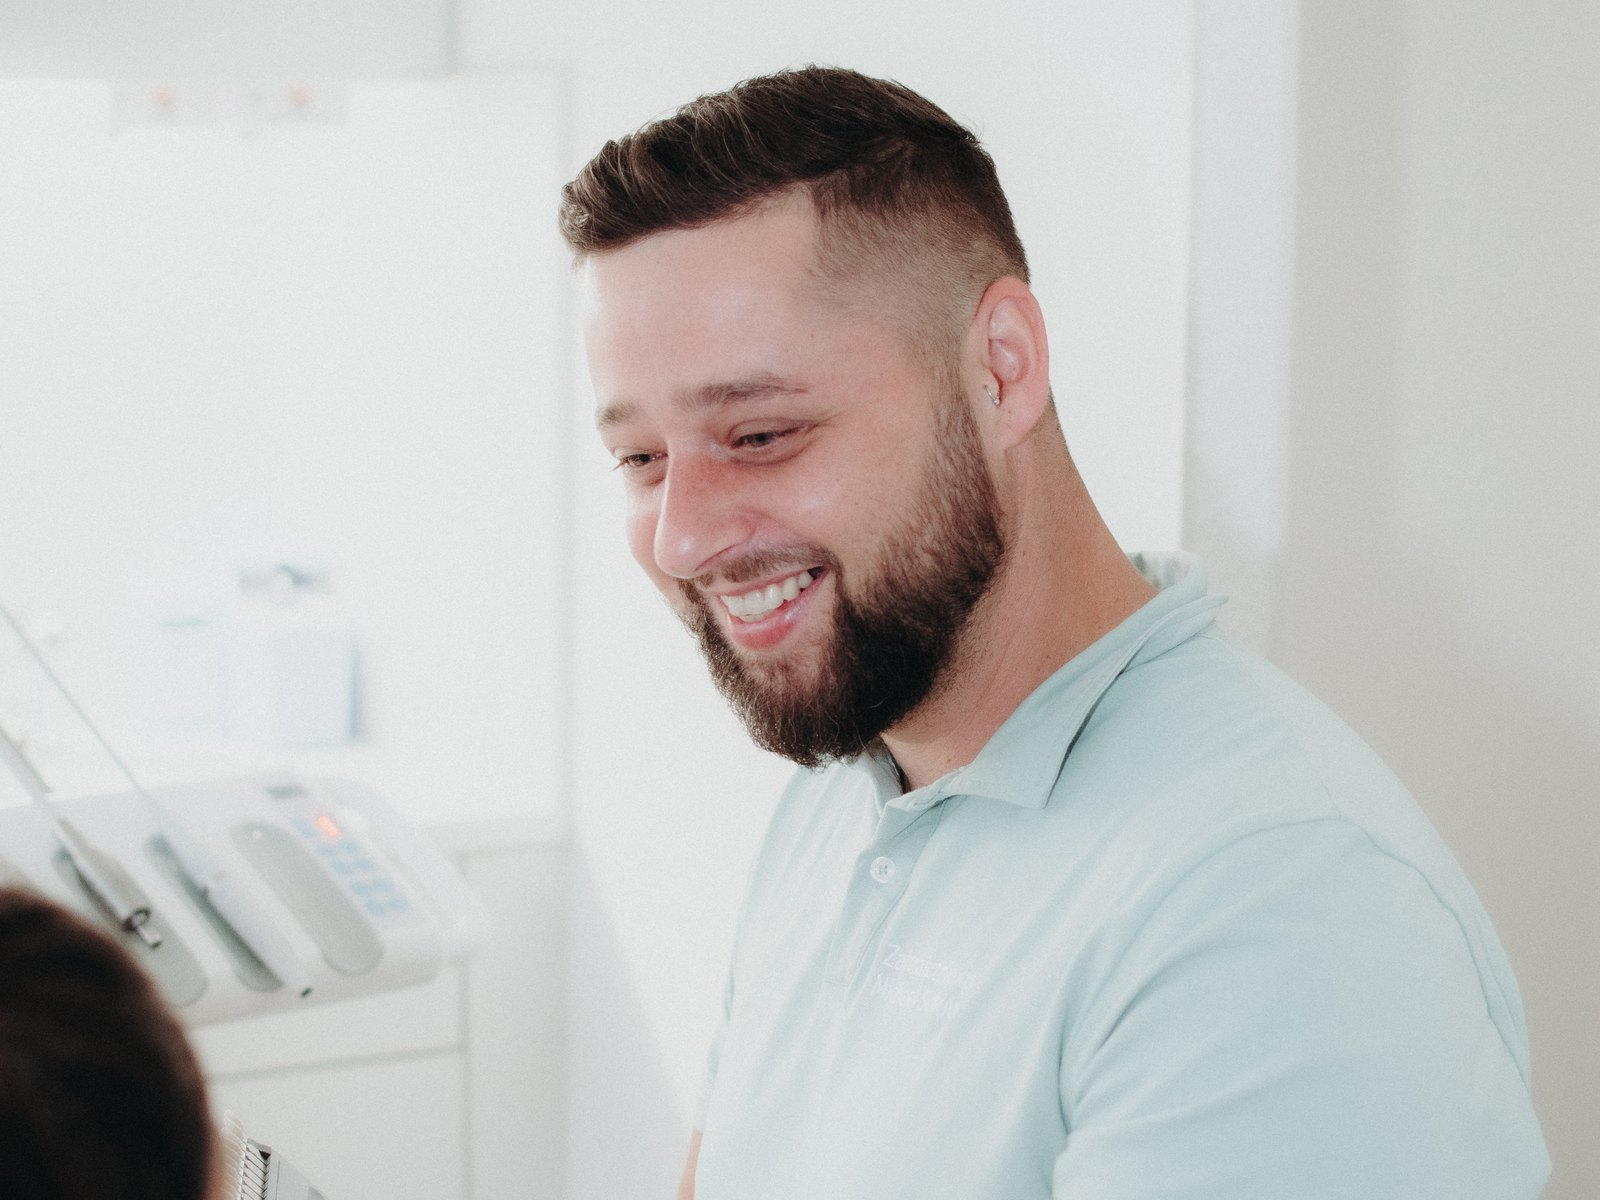
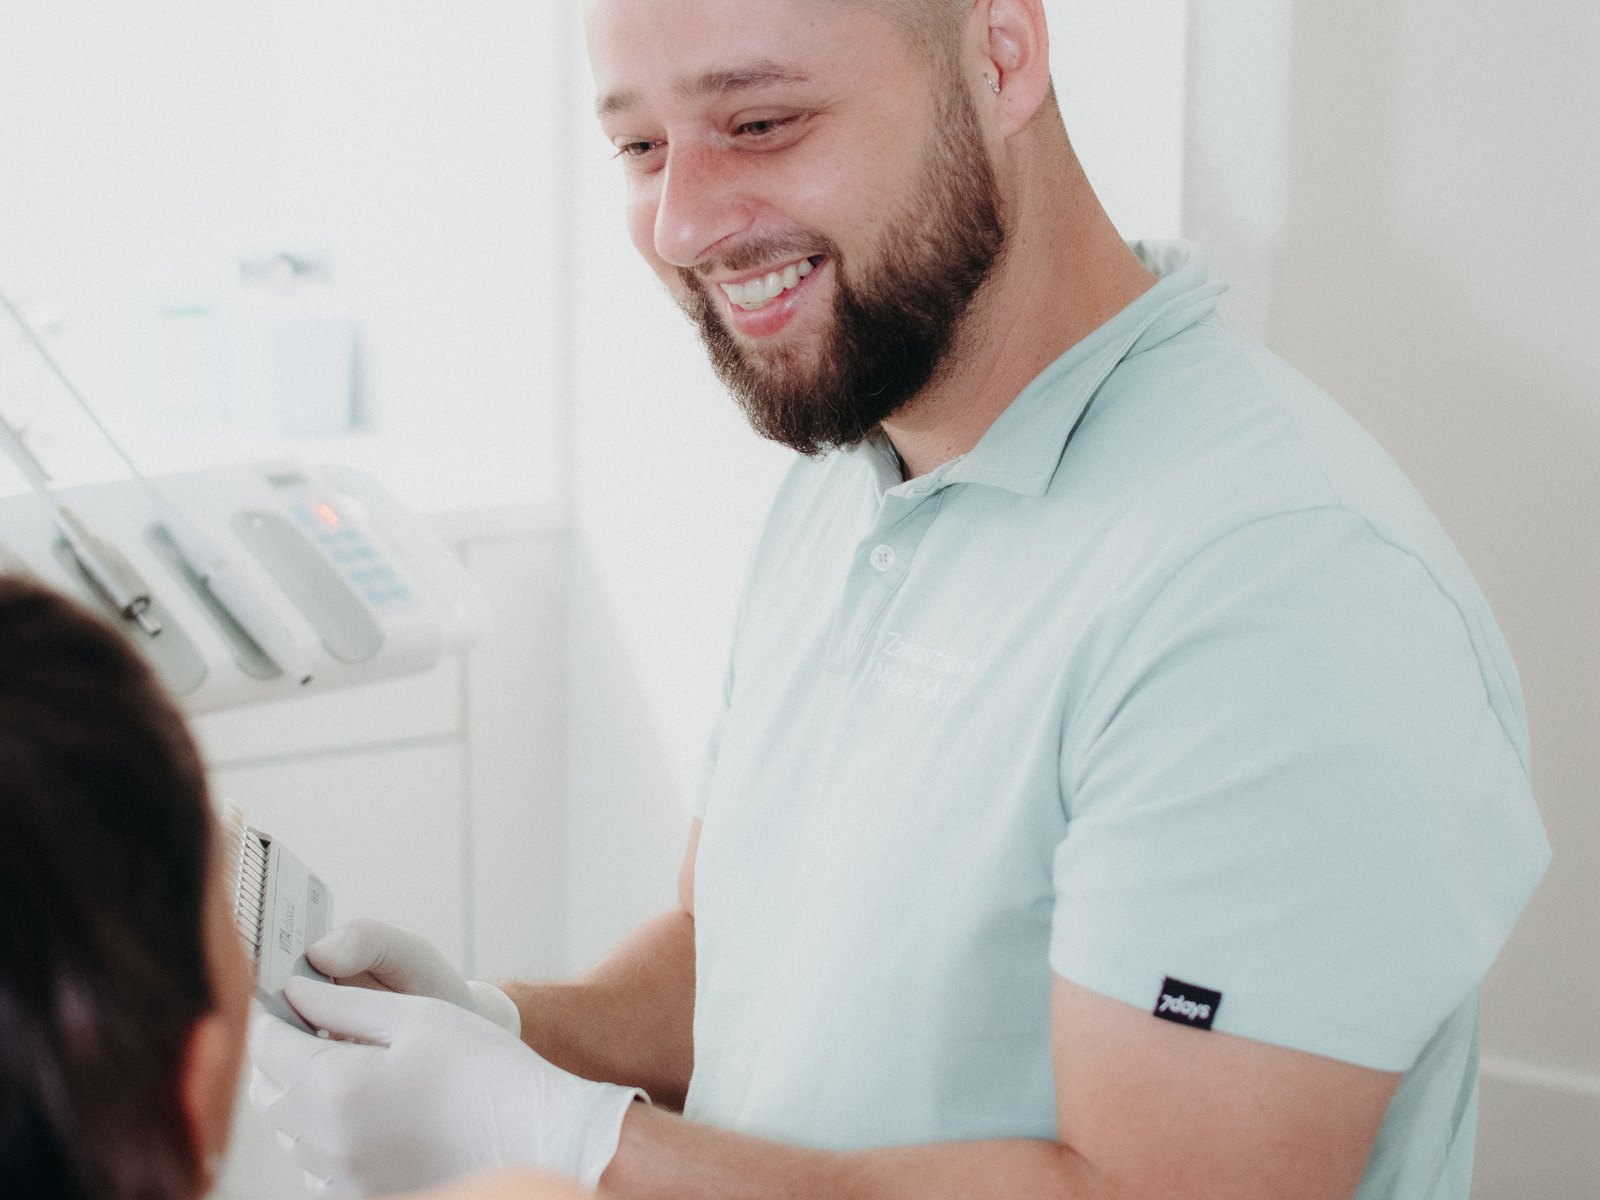
Kundenrueckmeldung: Hero heller, Team 3 mittig, Galerie ausgeglichen, Foto im Kontakt-Popup
- Hero-Flaeche von #E4EDE6 auf #EFF4F0: die gruene Schrift vibrierte
  auf dem satteren Grund
- team-stephanie-schulz.jpg neu geschnitten, stand zu weit links
- galerie-moment.jpg zeigt jetzt die Behandlungssituation statt nur
  das Gesicht; Kachel von breit auf mittel, Im Alltag uebernimmt breit
- Kontaktfoto sitzt jetzt im Kopf des Kontakt-Popups mit kleinem
  Telefon-Punkt, der runde Platz im Kontaktabschnitt entfaellt
- Dabei behoben: der leere Foto-Container blieb als Grid-Spalte stehen
  und liess den Kontaktdaten auf dem Handy nur 166 statt 342 px

Claude-Session: https://claude.ai/code/session_0193Zfcer8ifQsmnTo4EijTZ

diff --git a/import/index.html b/import/index.html
@@ -463,7 +463,7 @@
        Bewusst NICHT an --bg2 gekoppelt: Auf fast weissem Grund wuerde das
        helle Salbei-Polo mit dem Hintergrund verschwimmen. */
     #hero {
-      --hero-flaeche: #E4EDE6;
+      --hero-flaeche: #EFF4F0;
       padding-top: 72px;
       min-height: 100vh;
       display: grid;
@@ -1467,6 +1467,30 @@
       display: flex; align-items: center; justify-content: center; color: var(--notfall);
     }
     .notfall-modal-icon svg { width: 47%; height: 47%; }
+    /* Rundes Foto im Kopf des Kontakt-Popups, ersetzt das fruehere
+       Telefon-Icon. Kleiner Telefon-Punkt unten rechts als Hinweis. */
+    .notfall-modal-foto {
+      width: 92px; height: 92px; margin: 0 auto 1.25rem;
+      border-radius: 50%; position: relative;
+      background: var(--petrol-bg);
+      box-shadow: 0 0 0 4px var(--white), 0 6px 20px rgba(46,51,48,0.12);
+    }
+    .notfall-modal-foto img {
+      width: 100%; height: 100%; border-radius: 50%;
+      object-fit: cover; object-position: center center; display: block;
+    }
+    .notfall-modal-foto.ohne-bild { box-shadow: none; }
+    .notfall-modal-foto.ohne-bild img { display: none; }
+    .notfall-modal-foto-badge {
+      position: absolute; right: -2px; bottom: -2px;
+      width: 30px; height: 30px; border-radius: 50%;
+      background: var(--petrol); color: var(--white);
+      display: flex; align-items: center; justify-content: center;
+      border: 2.5px solid var(--white);
+    }
+    .notfall-modal-foto.ohne-bild .notfall-modal-foto-badge {
+      position: static; width: 56px; height: 56px; margin: 14px auto; border: none;
+    }
     .notfall-modal-card h3 {
       font-family: 'Fraunces', serif;
       font-size: clamp(1.2rem, 2.7vh, 1.5rem); font-weight: 400;
@@ -2160,12 +2184,12 @@
         <img src="images/galerie-technik.jpg" alt="Intraoralscanner für digitale Abdrücke, Zahnarztpraxis Michael Schulz in Pforzheim" width="1600" height="1200" loading="lazy" decoding="async" onerror="var k=this.closest('.gal-v4');k.classList.add('gal-leer');k.removeAttribute('tabindex')">
         <figcaption class="gal-label-v4"><span>Präzise Technik</span><small>für schonende Behandlung</small></figcaption>
       </figure>
-      <figure class="a-zoom gal-v4 gal-mittel">
+      <figure class="a-zoom gal-v4 gal-breit">
         <img src="images/galerie-beratung.jpg" alt="Zwei Zahnärzte besprechen eine Röntgenaufnahme am Monitor, Zahnarztpraxis Michael Schulz in Pforzheim" width="1600" height="1200" loading="lazy" decoding="async" onerror="var k=this.closest('.gal-v4');k.classList.add('gal-leer');k.removeAttribute('tabindex')">
         <figcaption class="gal-label-v4"><span>Im Alltag</span></figcaption>
       </figure>
-      <figure class="a-zoom gal-v4 gal-breit">
-        <img src="images/galerie-moment.jpg" alt="Zahnarzt Michael Schulz lacht im Gespräch am Behandlungsplatz, Zahnarztpraxis Michael Schulz in Pforzheim" width="1600" height="1200" loading="lazy" decoding="async" onerror="var k=this.closest('.gal-v4');k.classList.add('gal-leer');k.removeAttribute('tabindex')">
+      <figure class="a-zoom gal-v4 gal-mittel">
+        <img src="images/galerie-moment.jpg" alt="Zahnarzt Michael Schulz lacht während der Behandlung einer Patientin, Zahnarztpraxis Michael Schulz in Pforzheim" width="1600" height="1200" loading="lazy" decoding="async" onerror="var k=this.closest('.gal-v4');k.classList.add('gal-leer');k.removeAttribute('tabindex')">
         <figcaption class="gal-label-v4"><span>Zeit für Sie</span><small>persönlich &middot; in Ruhe</small></figcaption>
       </figure>
     </div>
@@ -2175,14 +2199,9 @@
   <section id="kontakt" class="section-wrap bg3">
     <img class="abschnitt-icon a-zoom" src="images/icons/sprechblase.svg" alt="" width="44" height="44" loading="lazy" decoding="async">
     <h2 class="h2-serif a-auf">Wir freuen uns auf Sie</h2>
-    <div class="kontakt-layout">
-      <!-- Rundes Foto: Desktop rechts neben den beiden Spalten, Tablet und
-           Handy klein ueber dem Text. Fehlt die Datei, verschwindet es
-           ganz und die Spalten ruecken zusammen. -->
-      <figure class="kontakt-foto a-zoom a-takt-2">
-        <span class="kontakt-foto-rund"><img src="images/kontakt-portrait.jpg" alt="Mitarbeiterin der Zahnarztpraxis Michael Schulz in Pforzheim am Telefon" width="800" height="800" loading="lazy" decoding="async" onerror="this.closest('.kontakt-layout').classList.add('ohne-foto');this.closest('.kontakt-foto').remove()"></span>
-        <a class="kontakt-foto-ruf" href="tel:0723121641" aria-label="Praxis anrufen: 07231 21641"><svg width="17" height="17" viewBox="0 0 24 24" fill="none" stroke="currentColor" stroke-width="1.9" stroke-linecap="round" stroke-linejoin="round" aria-hidden="true"><path d="M22 16.92v3a2 2 0 0 1-2.18 2 19.79 19.79 0 0 1-8.63-3.07 19.5 19.5 0 0 1-6-6 19.79 19.79 0 0 1-3.07-8.67A2 2 0 0 1 4.11 2h3a2 2 0 0 1 2 1.72 12.84 12.84 0 0 0 .7 2.81 2 2 0 0 1-.45 2.11L8.09 9.91a16 16 0 0 0 6 6l1.27-1.27a2 2 0 0 1 2.11-.45 12.84 12.84 0 0 0 2.81.7A2 2 0 0 1 22 16.92z"/></svg></a>
-      </figure>
+    <!-- ohne-foto: das runde Mitarbeiterfoto sitzt jetzt im Kopf des
+         Kontakt-Popups, nicht mehr hier. Die Foto-Spalte entfaellt. -->
+    <div class="kontakt-layout ohne-foto">
       <div class="kontakt-zeiten">
         <div class="kontakt-col-title">Öffnungszeiten</div>
         <div class="hours-list-v4">
@@ -2637,8 +2656,9 @@
   <div class="notfall-modal-backdrop" onclick="closeNotfall()"></div>
   <div class="notfall-modal-card">
     <button class="notfall-modal-close" onclick="closeNotfall()" aria-label="Schließen"><svg width="22" height="22" viewBox="0 0 24 24" fill="none" stroke="currentColor" stroke-width="1.5" stroke-linecap="round"><line x1="5" y1="5" x2="19" y2="19"/><line x1="19" y1="5" x2="5" y2="19"/></svg></button>
-    <div class="notfall-modal-icon">
-      <svg width="28" height="28" viewBox="0 0 24 24" fill="none" stroke="currentColor" stroke-width="2" stroke-linecap="round" stroke-linejoin="round"><path d="M22 16.92v3a2 2 0 0 1-2.18 2 19.79 19.79 0 0 1-8.63-3.07 19.5 19.5 0 0 1-6-6 19.79 19.79 0 0 1-3.07-8.67A2 2 0 0 1 4.11 2h3a2 2 0 0 1 2 1.72 12.84 12.84 0 0 0 .7 2.81 2 2 0 0 1-.45 2.11L8.09 9.91a16 16 0 0 0 6 6l1.27-1.27a2 2 0 0 1 2.11-.45 12.84 12.84 0 0 0 2.81.7A2 2 0 0 1 22 16.92z"/></svg>
+    <div class="notfall-modal-foto">
+      <img src="images/kontakt-portrait.jpg" alt="Mitarbeiterin der Zahnarztpraxis Michael Schulz in Pforzheim am Telefon" width="600" height="600" loading="lazy" decoding="async" onerror="this.closest('.notfall-modal-foto').classList.add('ohne-bild')">
+      <span class="notfall-modal-foto-badge" aria-hidden="true"><svg width="16" height="16" viewBox="0 0 24 24" fill="none" stroke="currentColor" stroke-width="2" stroke-linecap="round" stroke-linejoin="round"><path d="M22 16.92v3a2 2 0 0 1-2.18 2 19.79 19.79 0 0 1-8.63-3.07 19.5 19.5 0 0 1-6-6 19.79 19.79 0 0 1-3.07-8.67A2 2 0 0 1 4.11 2h3a2 2 0 0 1 2 1.72 12.84 12.84 0 0 0 .7 2.81 2 2 0 0 1-.45 2.11L8.09 9.91a16 16 0 0 0 6 6l1.27-1.27a2 2 0 0 1 2.11-.45 12.84 12.84 0 0 0 2.81.7A2 2 0 0 1 22 16.92z"/></svg></span>
     </div>
     <h3>So erreichen Sie uns</h3>
     <p>Rufen Sie uns gerne an oder schreiben Sie uns eine <span class="nbr">E-Mail</span>. Wir melden uns schnellstmöglich bei Ihnen. Schmerzpatienten erhalten unverzüglich einen Termin.</p>
